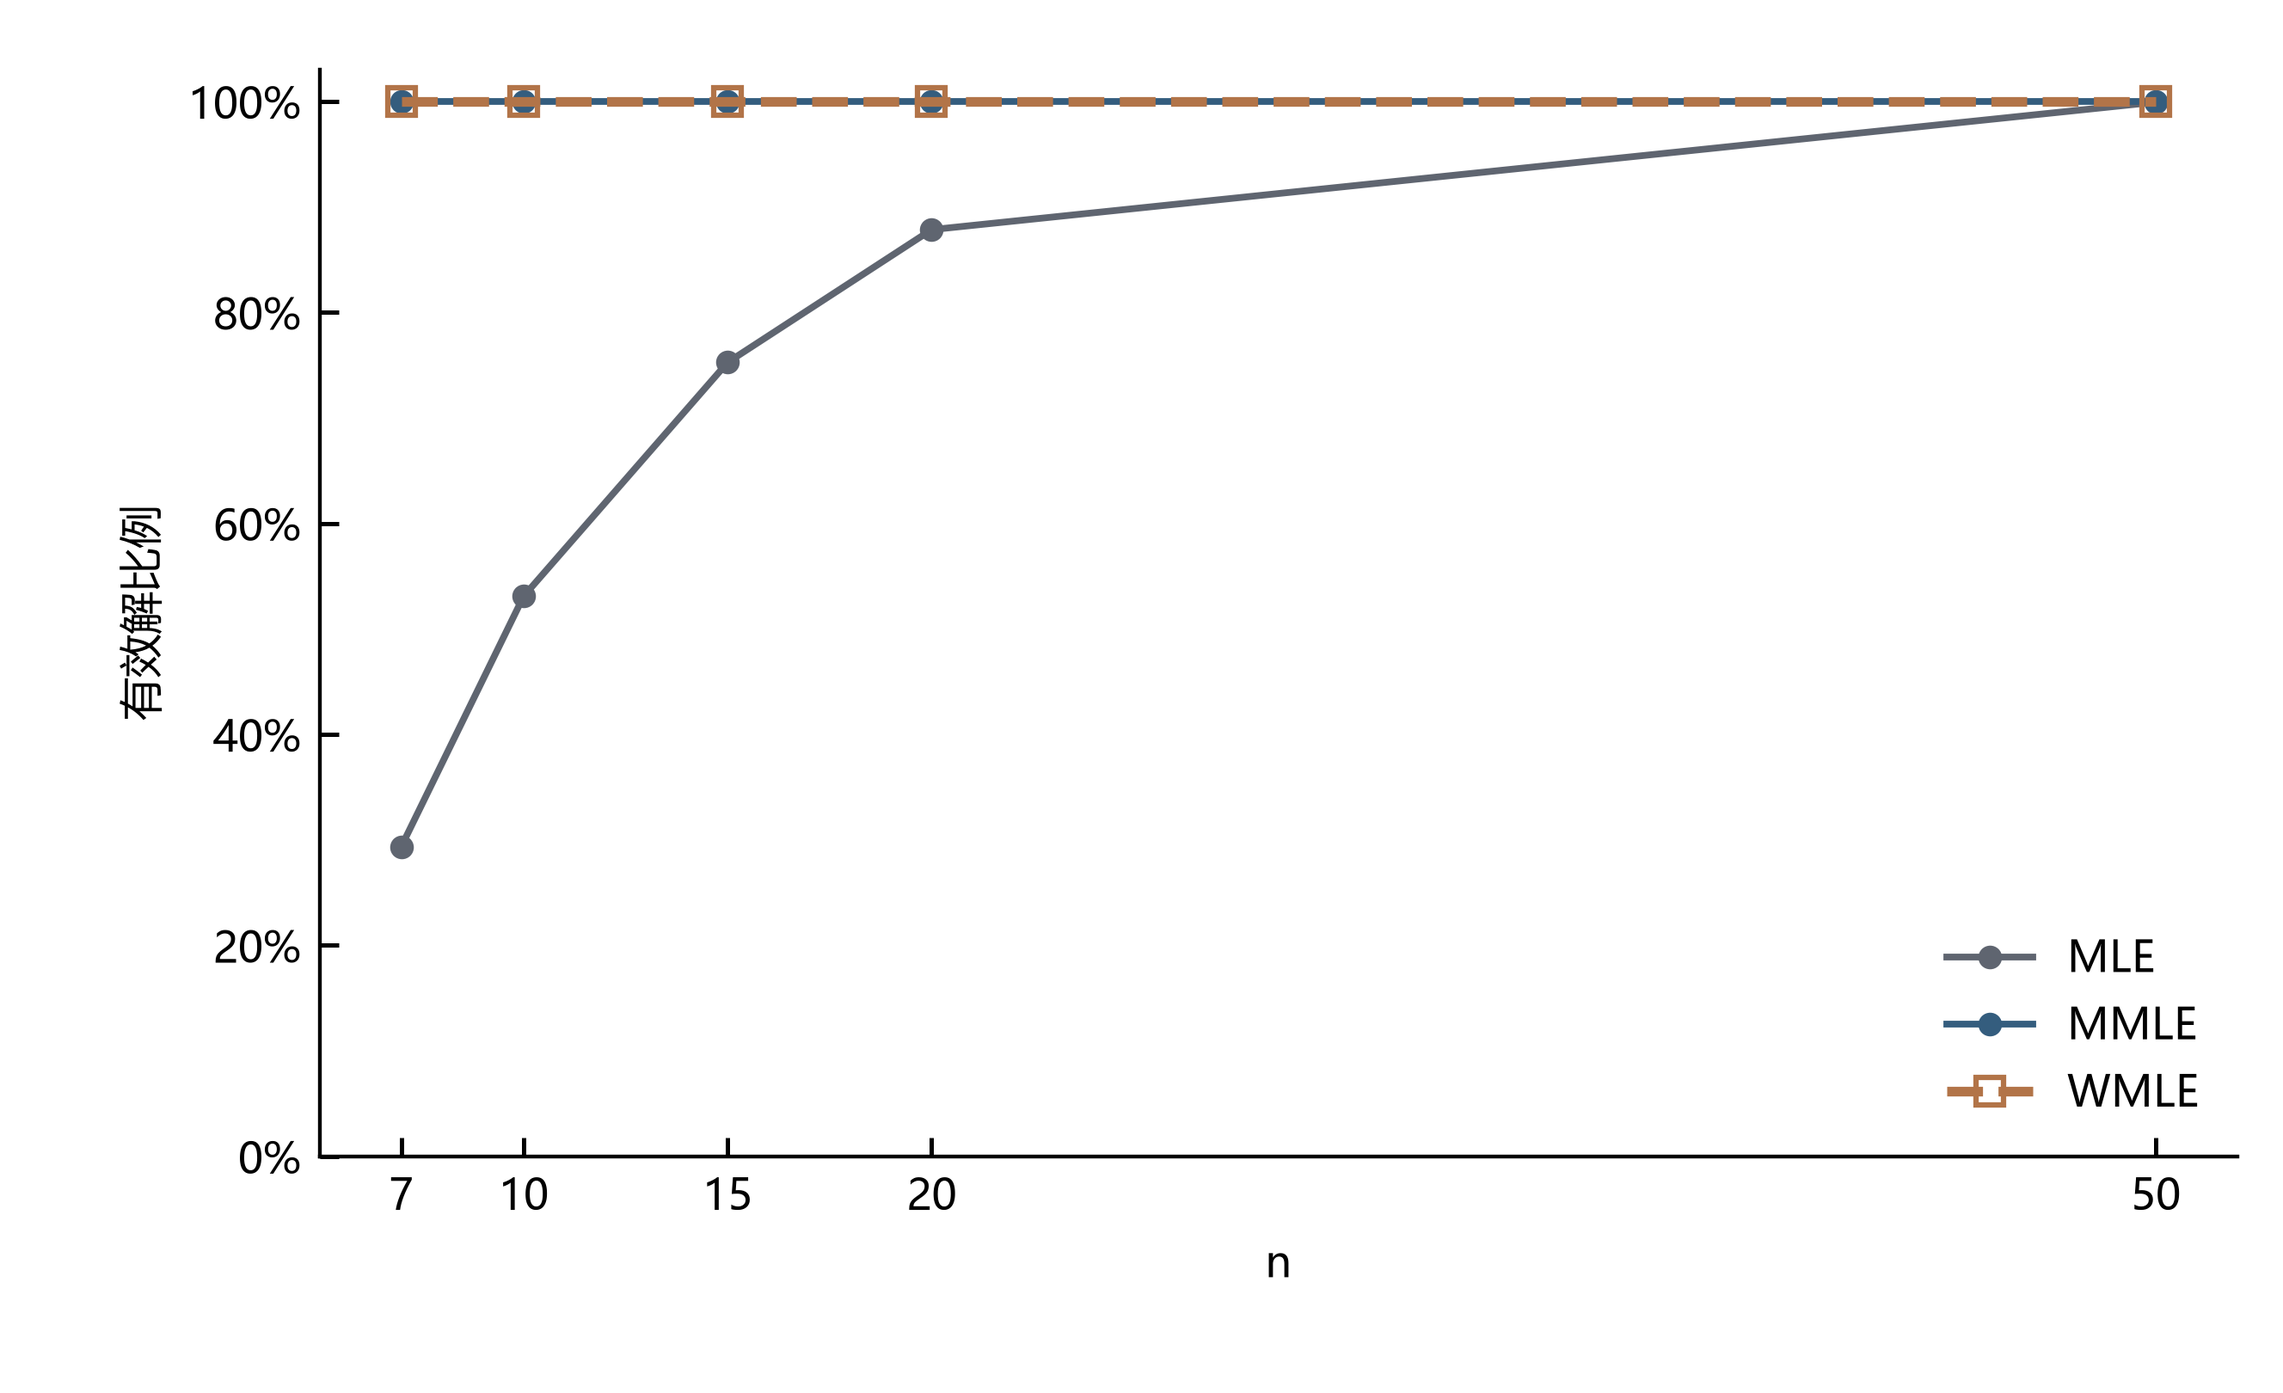
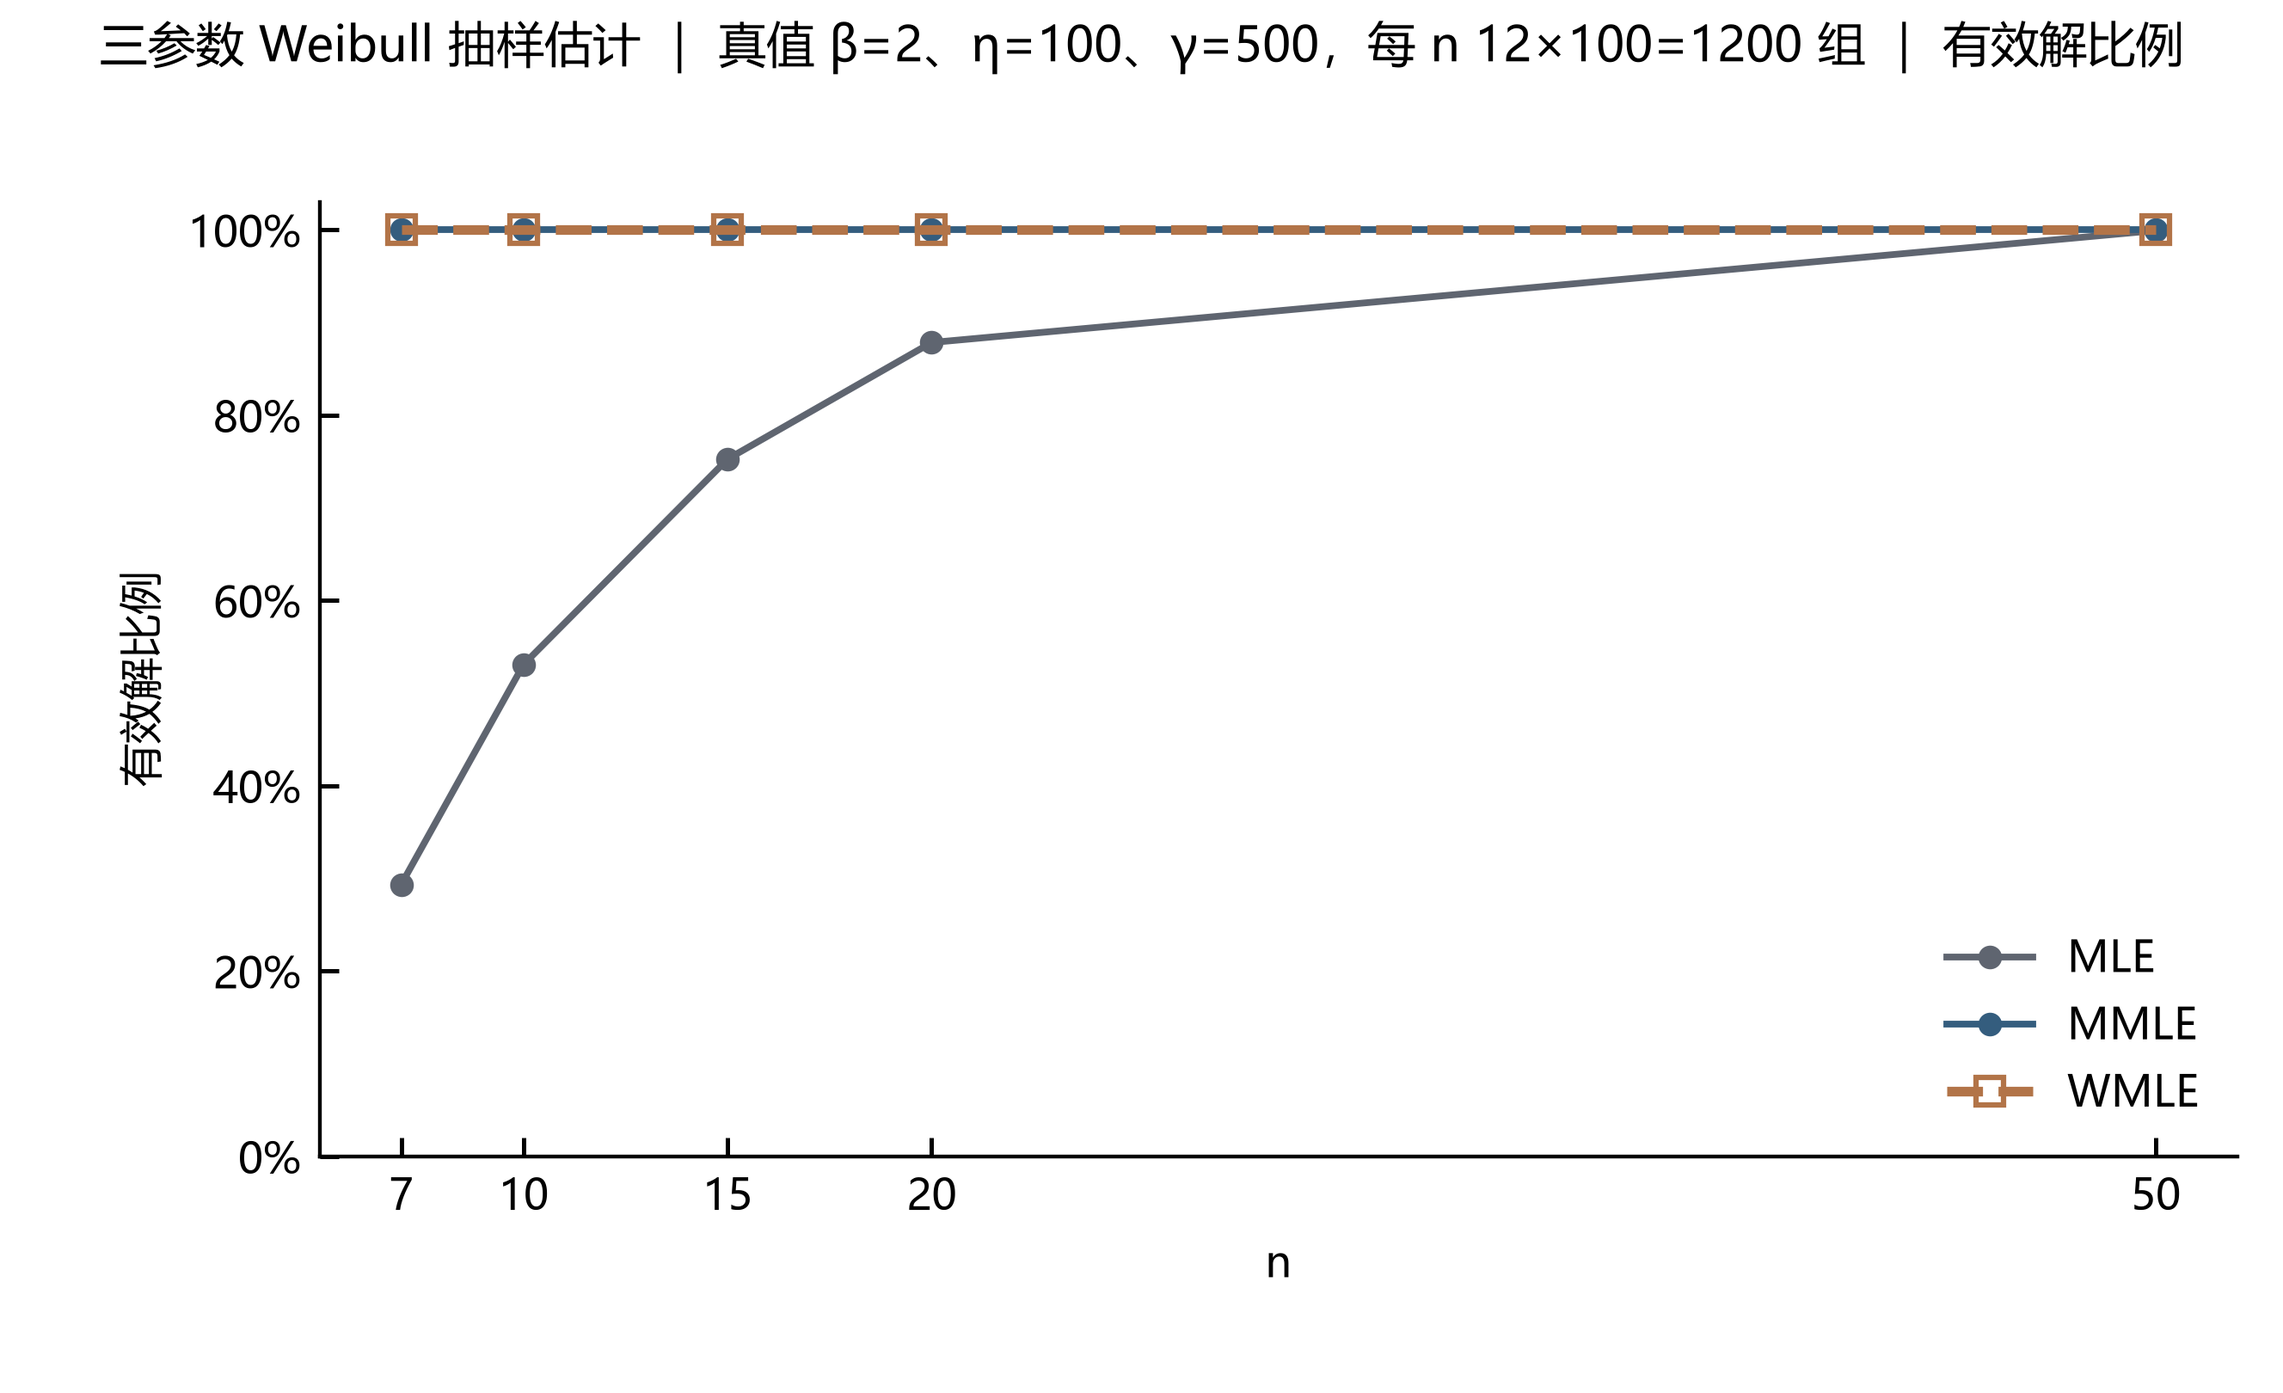
Research09 图表交付完善：三批 PNG 增补标题（真值/每组数/图名），哈希与说明同步
三个 W 批次的 draw.py 增加 setting_title()，真值与每组数从 config.json 读取，三张 PNG 顶部加标题；布局微调避免与图例重叠。
仅改展示：估计、统计、样本数据未变动。
manifest.json 中 程序/draw.py 与三张 PNG 的 bytes/sha256 已同步（三批各 47 条目全量复核一致）；方法与结果说明.md 追加变更记录。

diff --git a/Research/09-Weibull参数估计方法谱系与比较基线/实验/W(2,1000,500)/程序/draw.py b/Research/09-Weibull参数估计方法谱系与比较基线/实验/W(2,1000,500)/程序/draw.py
@@ -12,6 +12,16 @@ from scipy.stats import gaussian_kde
 HERE=Path(__file__).resolve().parent;SOURCE=HERE.parent/'结果';OUT=SOURCE;AUDIT=HERE
 METHODS=['MLE','MMLE','WMLE'];NS=[7,10,15,20,50];COLORS=['#5F6570','#345D7E','#B27448']
 PARAMS=['beta','eta','gamma'];LABELS=['β','η','γ'];TRUTH=json.loads((HERE/'config.json').read_text(encoding='utf-8'))['truth']
+def setting_title(suffix=''):
+    try:
+        _c=json.loads((HERE/'config.json').read_text(encoding='utf-8'))
+        _t=_c.get('truth',TRUTH);_b=_c.get('blocks');_r=_c.get('repeats')
+        _extra='，每 n %d×%d=%d 组'%(_b,_r,_b*_r) if _b and _r else ''
+    except Exception:
+        _t=TRUTH;_extra=''
+    _f=lambda v:('%g'%v)
+    _h='三参数 Weibull 抽样估计 ｜ 真值 β=%s、η=%s、γ=%s%s'%(_f(_t[0]),_f(_t[1]),_f(_t[2]),_extra)
+    return _h+(' ｜ '+suffix if suffix else '')
 plt.rcParams.update({'font.family':'sans-serif','font.sans-serif':['Microsoft YaHei','Arial','DejaVu Sans'],
  'font.size':8,'axes.linewidth':.7,'axes.spines.top':False,'axes.spines.right':False,'axes.unicode_minus':False})
 def save(fig,name):
@@ -55,8 +65,9 @@ def main():
         assert all(np.array_equal(axes[row,0].get_xticks(),axes[row,c].get_xticks()) for c in range(1,5))
     violin_legend=[Line2D([],[],color='#E78AB5',marker='o',ls='',ms=5,label='中位数'),
                    Line2D([],[],color='#D62728',marker='o',ls='',ms=4,label='均值')]
-    fig.legend(handles=violin_legend,loc='upper center',ncol=2,frameon=False,bbox_to_anchor=(.53,.997))
-    fig.subplots_adjust(left=.085,right=.982,bottom=.08,top=.89,wspace=.23,hspace=.43)
+    fig.legend(handles=violin_legend,loc='upper center',ncol=2,frameon=False,bbox_to_anchor=(.53,.952))
+    fig.suptitle(setting_title('估计值分布'),fontsize=10,y=.988)
+    fig.subplots_adjust(left=.085,right=.982,bottom=.08,top=.872,wspace=.23,hspace=.43)
     save(fig,'01_估计分布小提琴.png')
     fig,ax=plt.subplots(figsize=(5.9,3.6))
     for i,m in enumerate(METHODS):
@@ -65,7 +76,8 @@ def main():
                 marker='s' if i==2 else 'o',ms=5 if i==2 else 3.4,mfc='none' if i==2 else COLORS[i],label=m)
         points.extend(dict(figure='solution_rate',method=m,n=n,value=float(v)) for n,v in zip(NS,y))
     common(ax);ax.set_ylim(0,1.03);ax.set_yticks([0,.2,.4,.6,.8,1]);ax.yaxis.set_major_formatter(PercentFormatter(1))
-    ax.set_ylabel('有效解比例');ax.legend(frameon=False,loc='lower right');fig.subplots_adjust(left=.14,right=.98,bottom=.17,top=.95)
+    ax.set_ylabel('有效解比例');ax.legend(frameon=False,loc='lower right')
+    fig.suptitle(setting_title('有效解比例'),fontsize=9,y=.985);fig.subplots_adjust(left=.14,right=.98,bottom=.17,top=.855)
     save(fig,'02_有解率.png')
     metric_limits={'rmse':[(0,3),(0,900),(0,900)],'bias':[(-.5,1.5),(-400,400),(-400,400)],'sd':[(0,2.5),(0,900),(0,900)]}
     metric_ticks={'rmse':[[0,.5,1,1.5,2,2.5,3],[0,200,400,600,800],[0,200,400,600,800]],
@@ -82,8 +94,9 @@ def main():
             common(ax)
             if metric=='bias':ax.axhline(0,color='.75',lw=.55,zorder=0)
             ax.set_ylim(limits);ax.set_yticks(ticks);ax.set_ylabel(label+' '+{'rmse':'RMSE','bias':'Bias','sd':'SD'}[metric])
-    fig.legend(*axes[0,0].get_legend_handles_labels(),loc='upper center',ncol=3,frameon=False,bbox_to_anchor=(.51,.999))
-    fig.subplots_adjust(left=.08,right=.984,bottom=.065,top=.94,wspace=.28,hspace=.39);save(fig,'03_RMSE_Bias_SD九格.png')
+    fig.legend(*axes[0,0].get_legend_handles_labels(),loc='upper center',ncol=3,frameon=False,bbox_to_anchor=(.51,.955))
+    fig.suptitle(setting_title('RMSE / Bias / SD'),fontsize=10.5,y=.988)
+    fig.subplots_adjust(left=.08,right=.984,bottom=.065,top=.912,wspace=.28,hspace=.39);save(fig,'03_RMSE_Bias_SD九格.png')
     pd.DataFrame(points).to_csv(AUDIT/'图点.csv',index=False)
     assert len(points)==150
     (AUDIT/'绘图核验.json').write_text(json.dumps(dict(source_sha256=hashlib.sha256(raw.read_bytes()).hexdigest(),

diff --git a/Research/09-Weibull参数估计方法谱系与比较基线/实验/W(2,100,500)/程序/draw.py b/Research/09-Weibull参数估计方法谱系与比较基线/实验/W(2,100,500)/程序/draw.py
@@ -12,6 +12,16 @@ from scipy.stats import gaussian_kde
 HERE=Path(__file__).resolve().parent;SOURCE=HERE.parent/'结果';OUT=SOURCE;AUDIT=HERE
 METHODS=['MLE','MMLE','WMLE'];NS=[7,10,15,20,50];COLORS=['#5F6570','#345D7E','#B27448']
 PARAMS=['beta','eta','gamma'];LABELS=['β','η','γ'];TRUTH=json.loads((HERE/'config.json').read_text(encoding='utf-8'))['truth']
+def setting_title(suffix=''):
+    try:
+        _c=json.loads((HERE/'config.json').read_text(encoding='utf-8'))
+        _t=_c.get('truth',TRUTH);_b=_c.get('blocks');_r=_c.get('repeats')
+        _extra='，每 n %d×%d=%d 组'%(_b,_r,_b*_r) if _b and _r else ''
+    except Exception:
+        _t=TRUTH;_extra=''
+    _f=lambda v:('%g'%v)
+    _h='三参数 Weibull 抽样估计 ｜ 真值 β=%s、η=%s、γ=%s%s'%(_f(_t[0]),_f(_t[1]),_f(_t[2]),_extra)
+    return _h+(' ｜ '+suffix if suffix else '')
 plt.rcParams.update({'font.family':'sans-serif','font.sans-serif':['Microsoft YaHei','Arial','DejaVu Sans'],
  'font.size':8,'axes.linewidth':.7,'axes.spines.top':False,'axes.spines.right':False,'axes.unicode_minus':False})
 def save(fig,name):
@@ -56,8 +66,9 @@ def main():
         assert all(np.array_equal(axes[row,0].get_xticks(),axes[row,c].get_xticks()) for c in range(1,5))
     violin_legend=[Line2D([],[],color='#E78AB5',marker='o',ls='',ms=5,label='中位数'),
                    Line2D([],[],color='#D62728',marker='o',ls='',ms=4,label='均值')]
-    fig.legend(handles=violin_legend,loc='upper center',ncol=2,frameon=False,bbox_to_anchor=(.53,.997))
-    fig.subplots_adjust(left=.085,right=.982,bottom=.08,top=.89,wspace=.23,hspace=.43)
+    fig.legend(handles=violin_legend,loc='upper center',ncol=2,frameon=False,bbox_to_anchor=(.53,.952))
+    fig.suptitle(setting_title('估计值分布'),fontsize=10,y=.988)
+    fig.subplots_adjust(left=.085,right=.982,bottom=.08,top=.872,wspace=.23,hspace=.43)
     save(fig,'01_估计分布小提琴.png')
     fig,ax=plt.subplots(figsize=(5.9,3.6))
     for i,m in enumerate(METHODS):
@@ -66,7 +77,8 @@ def main():
                 marker='s' if i==2 else 'o',ms=5 if i==2 else 3.4,mfc='none' if i==2 else COLORS[i],label=m)
         points.extend(dict(figure='solution_rate',method=m,n=n,value=float(v)) for n,v in zip(NS,y))
     common(ax);ax.set_ylim(0,1.03);ax.set_yticks([0,.2,.4,.6,.8,1]);ax.yaxis.set_major_formatter(PercentFormatter(1))
-    ax.set_ylabel('有效解比例');ax.legend(frameon=False,loc='lower right');fig.subplots_adjust(left=.14,right=.98,bottom=.17,top=.95)
+    ax.set_ylabel('有效解比例');ax.legend(frameon=False,loc='lower right')
+    fig.suptitle(setting_title('有效解比例'),fontsize=9,y=.985);fig.subplots_adjust(left=.14,right=.98,bottom=.17,top=.855)
     save(fig,'02_有解率.png')
     metric_limits={'rmse':[(0,3),(0,90),(0,90)],'bias':[(-.5,1.5),(-40,40),(-40,40)],'sd':[(0,2.5),(0,90),(0,90)]}
     metric_ticks={'rmse':[[0,.5,1,1.5,2,2.5,3],[0,20,40,60,80],[0,20,40,60,80]],
@@ -83,8 +95,9 @@ def main():
             common(ax)
             if metric=='bias':ax.axhline(0,color='.75',lw=.55,zorder=0)
             ax.set_ylim(limits);ax.set_yticks(ticks);ax.set_ylabel(label+' '+{'rmse':'RMSE','bias':'Bias','sd':'SD'}[metric])
-    fig.legend(*axes[0,0].get_legend_handles_labels(),loc='upper center',ncol=3,frameon=False,bbox_to_anchor=(.51,.999))
-    fig.subplots_adjust(left=.08,right=.984,bottom=.065,top=.94,wspace=.28,hspace=.39);save(fig,'03_RMSE_Bias_SD九格.png')
+    fig.legend(*axes[0,0].get_legend_handles_labels(),loc='upper center',ncol=3,frameon=False,bbox_to_anchor=(.51,.955))
+    fig.suptitle(setting_title('RMSE / Bias / SD'),fontsize=10.5,y=.988)
+    fig.subplots_adjust(left=.08,right=.984,bottom=.065,top=.912,wspace=.28,hspace=.39);save(fig,'03_RMSE_Bias_SD九格.png')
     pd.DataFrame(points).to_csv(AUDIT/'图点.csv',index=False)
     assert len(points)==150
     (AUDIT/'绘图核验.json').write_text(json.dumps(dict(source_sha256=hashlib.sha256(raw.read_bytes()).hexdigest(),

diff --git a/Research/09-Weibull参数估计方法谱系与比较基线/实验/W(2,1000,1000)/程序/draw.py b/Research/09-Weibull参数估计方法谱系与比较基线/实验/W(2,1000,1000)/程序/draw.py
@@ -12,6 +12,16 @@ from scipy.stats import gaussian_kde
 HERE=Path(__file__).resolve().parent;SOURCE=HERE.parent/'结果';OUT=SOURCE;AUDIT=HERE
 METHODS=['MLE','MMLE','WMLE'];NS=[7,10,15,20,50];COLORS=['#5F6570','#345D7E','#B27448']
 PARAMS=['beta','eta','gamma'];LABELS=['β','η','γ'];TRUTH=[2,1000,1000]
+def setting_title(suffix=''):
+    try:
+        _c=json.loads((HERE/'config.json').read_text(encoding='utf-8'))
+        _t=_c.get('truth',TRUTH);_b=_c.get('blocks');_r=_c.get('repeats')
+        _extra='，每 n %d×%d=%d 组'%(_b,_r,_b*_r) if _b and _r else ''
+    except Exception:
+        _t=TRUTH;_extra=''
+    _f=lambda v:('%g'%v)
+    _h='三参数 Weibull 抽样估计 ｜ 真值 β=%s、η=%s、γ=%s%s'%(_f(_t[0]),_f(_t[1]),_f(_t[2]),_extra)
+    return _h+(' ｜ '+suffix if suffix else '')
 plt.rcParams.update({'font.family':'sans-serif','font.sans-serif':['Microsoft YaHei','Arial','DejaVu Sans'],
  'font.size':8,'axes.linewidth':.7,'axes.spines.top':False,'axes.spines.right':False,'axes.unicode_minus':False})
 def save(fig,name):
@@ -55,8 +65,9 @@ def main():
         assert all(np.array_equal(axes[row,0].get_xticks(),axes[row,c].get_xticks()) for c in range(1,5))
     violin_legend=[Line2D([],[],color='#E78AB5',marker='o',ls='',ms=5,label='中位数'),
                    Line2D([],[],color='#D62728',marker='o',ls='',ms=4,label='均值')]
-    fig.legend(handles=violin_legend,loc='upper center',ncol=2,frameon=False,bbox_to_anchor=(.53,.997))
-    fig.subplots_adjust(left=.085,right=.982,bottom=.08,top=.89,wspace=.23,hspace=.43)
+    fig.legend(handles=violin_legend,loc='upper center',ncol=2,frameon=False,bbox_to_anchor=(.53,.952))
+    fig.suptitle(setting_title('估计值分布'),fontsize=10,y=.988)
+    fig.subplots_adjust(left=.085,right=.982,bottom=.08,top=.872,wspace=.23,hspace=.43)
     save(fig,'01_估计分布小提琴.png')
     fig,ax=plt.subplots(figsize=(5.9,3.6))
     for i,m in enumerate(METHODS):
@@ -65,7 +76,8 @@ def main():
                 marker='s' if i==2 else 'o',ms=5 if i==2 else 3.4,mfc='none' if i==2 else COLORS[i],label=m)
         points.extend(dict(figure='solution_rate',method=m,n=n,value=float(v)) for n,v in zip(NS,y))
     common(ax);ax.set_ylim(0,1.03);ax.set_yticks([0,.2,.4,.6,.8,1]);ax.yaxis.set_major_formatter(PercentFormatter(1))
-    ax.set_ylabel('有效解比例');ax.legend(frameon=False,loc='lower right');fig.subplots_adjust(left=.14,right=.98,bottom=.17,top=.95)
+    ax.set_ylabel('有效解比例');ax.legend(frameon=False,loc='lower right')
+    fig.suptitle(setting_title('有效解比例'),fontsize=9,y=.985);fig.subplots_adjust(left=.14,right=.98,bottom=.17,top=.855)
     save(fig,'02_有解率.png')
     metric_limits={'rmse':[(0,3),(0,900),(0,900)],'bias':[(-.5,1.5),(-400,400),(-400,400)],'sd':[(0,2.5),(0,900),(0,900)]}
     metric_ticks={'rmse':[[0,.5,1,1.5,2,2.5,3],[0,200,400,600,800],[0,200,400,600,800]],
@@ -82,8 +94,9 @@ def main():
             common(ax)
             if metric=='bias':ax.axhline(0,color='.75',lw=.55,zorder=0)
             ax.set_ylim(limits);ax.set_yticks(ticks);ax.set_ylabel(label+' '+{'rmse':'RMSE','bias':'Bias','sd':'SD'}[metric])
-    fig.legend(*axes[0,0].get_legend_handles_labels(),loc='upper center',ncol=3,frameon=False,bbox_to_anchor=(.51,.999))
-    fig.subplots_adjust(left=.08,right=.984,bottom=.065,top=.94,wspace=.28,hspace=.39);save(fig,'03_RMSE_Bias_SD九格.png')
+    fig.legend(*axes[0,0].get_legend_handles_labels(),loc='upper center',ncol=3,frameon=False,bbox_to_anchor=(.51,.955))
+    fig.suptitle(setting_title('RMSE / Bias / SD'),fontsize=10.5,y=.988)
+    fig.subplots_adjust(left=.08,right=.984,bottom=.065,top=.912,wspace=.28,hspace=.39);save(fig,'03_RMSE_Bias_SD九格.png')
     pd.DataFrame(points).to_csv(AUDIT/'图点.csv',index=False)
     assert len(points)==150
     (AUDIT/'绘图核验.json').write_text(json.dumps(dict(source_sha256=hashlib.sha256(raw.read_bytes()).hexdigest(),

diff --git a/Research/09-Weibull参数估计方法谱系与比较基线/实验/W(2,100,500)/程序/方法与结果说明.md b/Research/09-Weibull参数估计方法谱系与比较基线/实验/W(2,100,500)/程序/方法与结果说明.md
@@ -78,3 +78,5 @@ Excel共11表，生成样本_n7→估计结果_n7→…→生成样本_n50→估
 在新公开程序路径用相邻CSV实际运行出图、导表入口通过，未重新拟合。全部三方法重算入口为reproduce.py --output <尚不存在的目录> --workers 6；相邻CSV复用入口为draw.py与export_workbook.ps1，详细命令见[README](README.md)。
 
 目录仅程序/结果，无zip或交付层；程序只留轻量代码、配置、冻结源码与说明。原始块结果、NPZ、预览与核验过程保存于邮箱任务015档案。未改生产算法、未提交、未推送。
+
+2026-10-06 仅改展示：三张 PNG 顶部增补标题（真值 β=2、η=100、γ=500；每 n 12×100=1200 组；图名），标题与图例、子图间距微调。估计、统计与样本数据未变动；draw.py 与三张 PNG 的哈希已在 manifest.json 同步。

diff --git a/Research/09-Weibull参数估计方法谱系与比较基线/实验/W(2,1000,1000)/程序/方法与结果说明.md b/Research/09-Weibull参数估计方法谱系与比较基线/实验/W(2,1000,1000)/程序/方法与结果说明.md
@@ -59,3 +59,5 @@ SD=std(θ̂, ddof=0)，RMSE=√mean((θ̂−θ)²)，所以RMSE²=Bias²+SD²。
 
 MMLE的β RMSE在五个n都低于另外两者，η/γ SD也较小，但η偏低、γ偏高。WMLE的γ RMSE在五个n都最低，n=50的η RMSE为149.56，低于MMLE的165.52和MLE的166.63；较小SD并不自动意味着较小RMSE。MLE有效数由n=7的377增至n=50的1199，精度仍基于各自有效子集，不能将小样本条件精度当作全样本保证。
 
+
+2026-10-06 仅改展示：三张 PNG 顶部增补标题（真值 β=2、η=1000、γ=1000；每 n 12×100=1200 组；图名），标题与图例、子图间距微调。估计、统计与样本数据未变动；draw.py 与三张 PNG 的哈希已在 manifest.json 同步。
